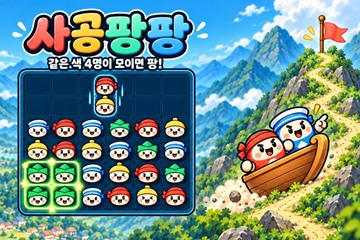
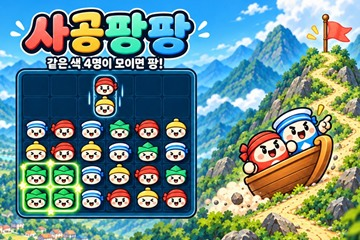
Zoom Sagongpangpang share and card thumbnails on title, boat, and summit

diff --git a/arcade/sagong/index.html b/arcade/sagong/index.html
@@ -16,8 +16,8 @@
   <meta property="og:type" content="website"><meta property="og:locale" content="ko_KR">
   <meta property="og:title" content="사공팡팡"><meta property="og:description" content="사공이 많으면 배가 산으로 가요. 같은 색의 사공을 넷 이상 모아 해방시켜주세요.">
   <meta property="og:url" content="https://visual.newsis.com/arcade/sagong/"><meta property="og:site_name" content="VISUAL NEWSIS">
-  <meta property="og:image" content="https://visual.newsis.com/arcade/sagong/assets/og-sagong-v3-safe-1200x630.jpg?v=20260929-3"><meta property="og:image:secure_url" content="https://visual.newsis.com/arcade/sagong/assets/og-sagong-v3-safe-1200x630.jpg?v=20260929-3"><meta property="og:image:type" content="image/jpeg"><meta property="og:image:width" content="1200"><meta property="og:image:height" content="630"><meta property="og:image:alt" content="사공팡팡 — 사공 퍼즐판과 산길을 오르는 배">
-  <meta name="twitter:card" content="summary_large_image"><meta name="twitter:title" content="사공팡팡"><meta name="twitter:description" content="사공이 많으면 배가 산으로 가요. 같은 색의 사공을 넷 이상 모아 해방시켜주세요."><meta name="twitter:image" content="https://visual.newsis.com/arcade/sagong/assets/og-sagong-v3-safe-1200x630.jpg?v=20260929-3"><meta name="twitter:image:alt" content="사공팡팡 — 사공 퍼즐판과 산길을 오르는 배">
+  <meta property="og:image" content="https://visual.newsis.com/arcade/sagong/assets/og-sagong-v3-safe-zoom-1200x630.jpg?v=20260929-5"><meta property="og:image:secure_url" content="https://visual.newsis.com/arcade/sagong/assets/og-sagong-v3-safe-zoom-1200x630.jpg?v=20260929-5"><meta property="og:image:type" content="image/jpeg"><meta property="og:image:width" content="1200"><meta property="og:image:height" content="630"><meta property="og:image:alt" content="사공팡팡 — 사공 퍼즐판과 산길을 오르는 배">
+  <meta name="twitter:card" content="summary_large_image"><meta name="twitter:title" content="사공팡팡"><meta name="twitter:description" content="사공이 많으면 배가 산으로 가요. 같은 색의 사공을 넷 이상 모아 해방시켜주세요."><meta name="twitter:image" content="https://visual.newsis.com/arcade/sagong/assets/og-sagong-v3-safe-zoom-1200x630.jpg?v=20260929-5"><meta name="twitter:image:alt" content="사공팡팡 — 사공 퍼즐판과 산길을 오르는 배">
   <script async src="https://www.googletagmanager.com/gtag/js?id=G-6BKMWE02W5"></script>
   <script>window.dataLayer=window.dataLayer||[];function gtag(){dataLayer.push(arguments)}gtag('js',new Date());gtag('config','G-6BKMWE02W5');</script>
   <link rel="stylesheet" href="./style.css?v=20260929-1">

diff --git a/arcade/index.html b/arcade/index.html
@@ -52,7 +52,7 @@
     <section class="games" id="games" aria-labelledby="gamesTitle">
       <div class="section-head"><p>CHUNGMURO PLAYGROUND · 12 OPEN</p><h2 id="gamesTitle">오늘은<br>무엇을 할까요?</h2></div>
       <div class="game-list">
-        <a class="game-card game-card--sagong" href="./sagong/"><span class="number">01</span><span class="new-badge" aria-label="새로 공개">NEW</span><span class="visual visual--screen" aria-hidden="true"><img src="./sagong/assets/thumbnail-v3-safe-card-360x240.jpg?v=20260929-4" alt=""></span><span class="copy"><small>MATCH-FOUR PUZZLE · 약 3분</small><strong>사공팡팡</strong><p>사공이 많으면 배가 산으로 가요</p><b>출항하기 ↗</b></span></a>
+        <a class="game-card game-card--sagong" href="./sagong/"><span class="number">01</span><span class="new-badge" aria-label="새로 공개">NEW</span><span class="visual visual--screen" aria-hidden="true"><img src="./sagong/assets/thumbnail-v3-safe-card-360x240.jpg?v=20260929-5" alt=""></span><span class="copy"><small>MATCH-FOUR PUZZLE · 약 3분</small><strong>사공팡팡</strong><p>사공이 많으면 배가 산으로 가요</p><b>출항하기 ↗</b></span></a>
         <a class="game-card game-card--puzzle" href="./puzzle/"><span class="number">02</span><span class="visual visual--screen" aria-hidden="true"><img src="./assets/thumbnails/puzzle-safe-v2-360x240.jpg?v=20260812-1" alt=""></span><span class="copy"><small>NEWS PHOTO PUZZLE · 약 3분</small><strong>조각 사진관</strong><p>사진 뒤의 오늘</p><b>조각 맞추기 ↗</b></span></a>
         <a class="game-card game-card--chagok" href="./chagok/"><span class="number">03</span><span class="visual visual--screen" aria-hidden="true"><img src="./chagok/assets/thumbnail-360x240-v2.jpg?v=20260903-2" alt=""></span><span class="copy"><small>BLOCK STACKING · 약 3분</small><strong>차곡차곡</strong><p>쌓이는 스트레스, 정리하고 날리자</p><b>쌓기 시작 ↗</b></span></a>
         <a class="game-card game-card--omok" href="./omok/"><span class="number">04</span><span class="visual visual--screen" aria-hidden="true"><img src="./assets/thumbnails/news-omok-safe-v2-360x240.jpg?v=20260812-1" alt=""></span><span class="copy"><small>AI BOARD GAME · 약 3분</small><strong>뉴스 오목</strong><p>당신의 한 수</p><b>대국 시작 ↗</b></span></a>
